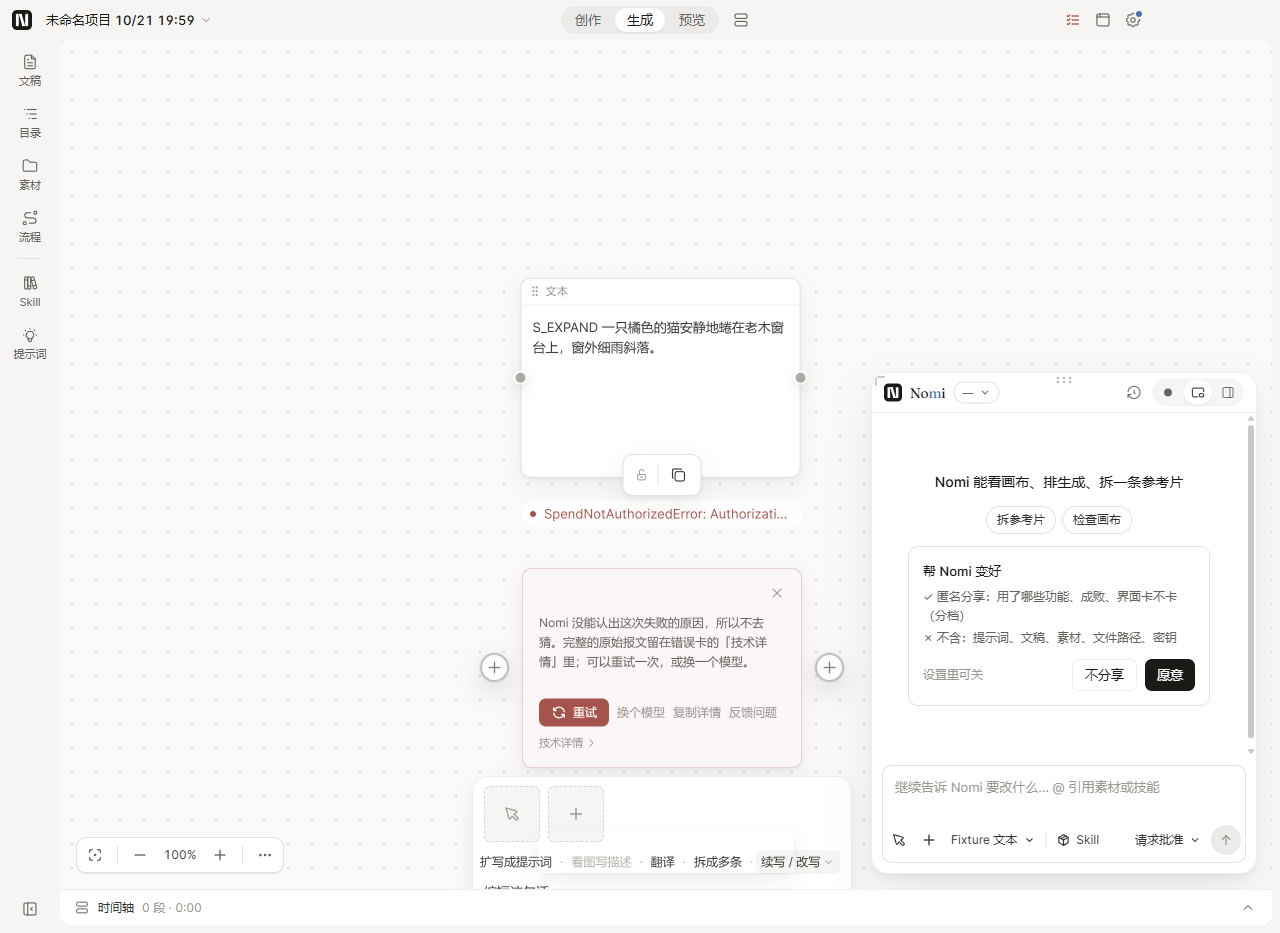
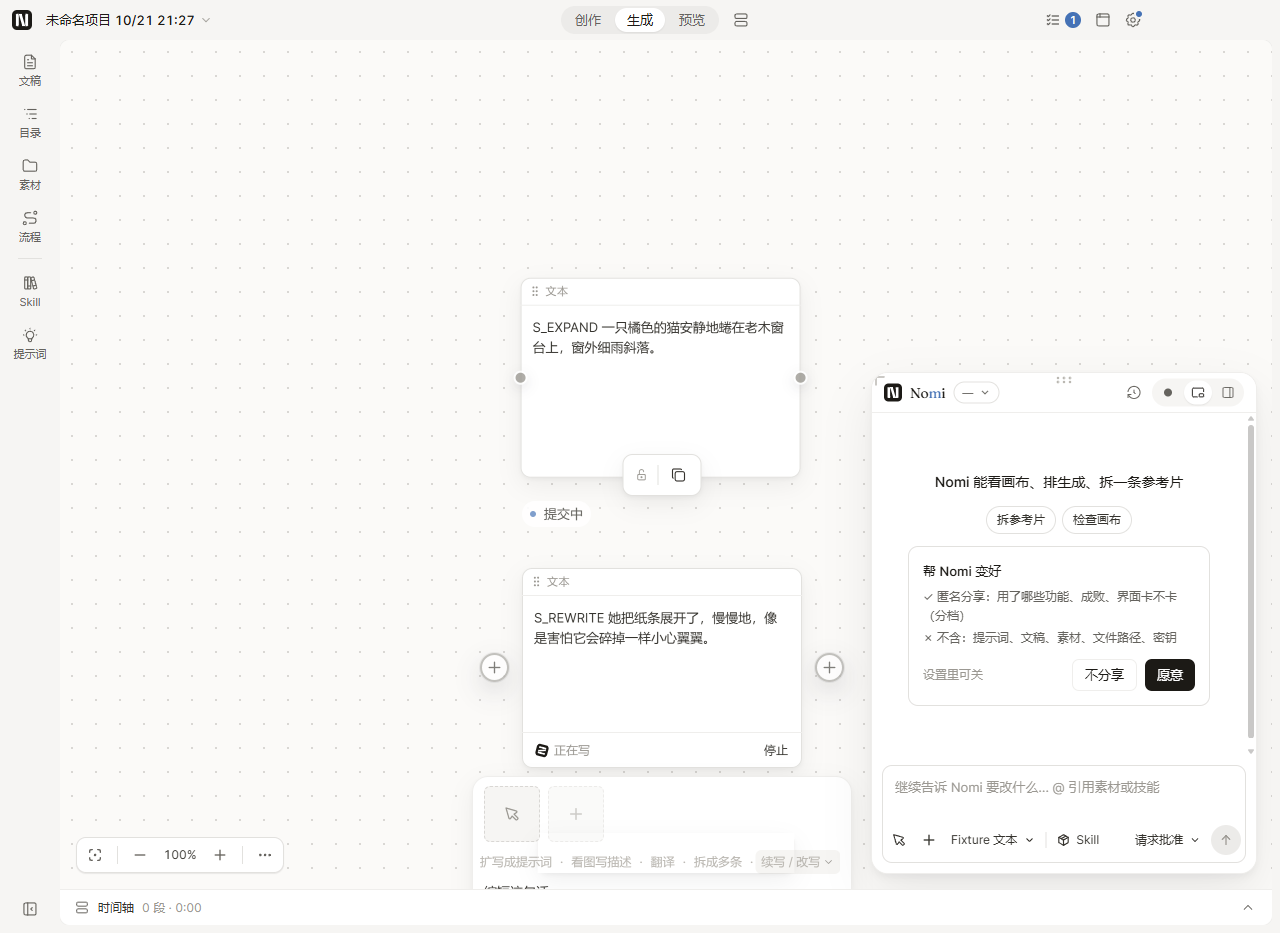
test(text): #2 改写选区整机演练补跑通（中英），预热与打开项目的实测与文档同步
#2 改写选区按拍板 A 修后，Electron 零花费演练中英两轮都过（先想 35 秒），截图 walk/04-zh-04-rewrite-done.png、
walk/10-en-04-rewrite-done.png；修前被拦的截图留作对照。设计卡「六」、根因合同的残留风险、复盘「系统哪里没拦住」、
证据 README 同步预热触发的三组实测与 #2 的修法。

Direction-Check: docs/audit/2026-10-21-text-stream-first-token-gate.md

diff --git a/docs/plan/2026-10-21-text-tasks-to-pi-ai.md b/docs/plan/2026-10-21-text-tasks-to-pi-ai.md
@@ -269,8 +269,9 @@
 
 - **调用方矩阵**（`electron/ai/textTaskCallers.integration.test.ts`，真 pi-ai + 真 HTTP 假上游，9 个调用方 × 正常 / 空回包 / 429 / 503 / 401 / SSE 包错 / 断流 / 无 finish_reason / 停止 / IPC 契约）：ai@4 上 19 红 → 迁移后全绿；计时类（`textTaskCallers.timing.integration.test.ts`：三相看门狗、整体兜底只给一次性入口、渲染层不自动重提）36 绿。
 - **真墙钟「先想 35 秒」**：9 个调用方在 ai@4 上全部 30 秒被掐 → 迁移后全过（`docs/evidence/2026-10-21-text-tasks-pi-ai/`）。
-- **Electron 零花费演练**（`tests/ux/text-tasks-pi-ai.rehearsal.walk.mjs`）：#1 扩写（流式，先想 35 秒）、#4 翻译、#3 优化中英两轮都过；#2 改写选区被付费闸挡（**迁移前就有**，见下）；#6 拆解被本机磁盘余量闸挡（no-disk-space，环境问题，记 unverified）。
-- **perf**（C4 之后，含预热）：热 中位 2.4 / p95 4.1ms（ai@4 基线 5.2 / 10.2，预算 20）；冷（预热完成后）中位 19.3 / p95 21.9ms（ai@4 基线 50.5 / 99.8，预算 100）；**刚启动就点、预热还没完成**：670–700ms（10 次），这是唯一比 ai@4 差的情形，窗口加载后约 4 秒起预热、约 2 秒装完。
+- **Electron 零花费演练**（`tests/ux/text-tasks-pi-ai.rehearsal.walk.mjs`）：#1 扩写（流式，先想 35 秒）、#4 翻译、#3 优化中英两轮都过；#2 改写选区第一轮被付费闸挡（**迁移前就有**，见下），按拍板 A 修后中英两轮都过（`walk/04-zh-04-rewrite-done.png`、`walk/10-en-04-rewrite-done.png`）；#6 拆解被本机磁盘余量闸挡（no-disk-space，环境问题，记 unverified，等用户清盘后补）。
+- **perf**（合 main 784dde0b1 之后）：热 中位 2.7 / p95 4.8ms（ai@4 基线 5.2 / 10.2，预算 20）；冷（预热完成后）中位 18.7 / p95 20.7ms（ai@4 基线 50.5 / 99.8，预算 100）；**刚启动就点、预热还没装**（真 App 主进程，10 次）：中位 174 / p95 207ms——唯一比 ai@4 差的情形（Node 子进程同量法 595–679ms，多出来的 pi-ai 入口在真 App 启动时已被别的模块装好）。
+- **预热的触发（协调 10-21 第 3 条，`docs/evidence/2026-10-21-text-tasks-pi-ai/c6-prewarm-trigger.txt`）**：启动后固定 4 秒预热 = Electron 主进程一段 250–290ms 同步阻塞，撞上「启动后几秒打开项目」时冷打开 100 节点中位 946 → 1341ms；照协调改成「带文本动作的界面一挂上就在空闲回调里预热」——这些界面随项目一起挂，仍落在打开过程里（1257ms），不采用；最终改为**指针移进 / 焦点进文本动作**（提示词优化、翻译、文本节点输入框、Agent 输入框，`src/workbench/api/textActionIntent.ts`）时在渲染层空闲回调里预热，主进程只装目录里启用了的文本模型用到的协议、逐条装：打开项目时不开火，冷打开回到中位 963–1022ms；预热本身最长阻塞中位 184 / 最大 231ms（单个 openai SDK 的模块图，主进程里拆不小——仍高于 100ms 线，选项见交付报告）。
 - **D9 目录里的 maxOutputTokens**：内置目录（seedBuiltins / apimartTexts / modelscopeTexts 等）没有任何文本模型声明 `meta.maxOutputTokens`，只有用户在目录里手填才会有；所以迁移后不会因为它把长文截断。
 - **pi-ai 子路径**：`createModels` / `createProvider` / `InMemoryCredentialStore` 不在 exports 子路径里，只能经入口导入；深引会破坏包封装，不采用（见「先查别人」）。
 

diff --git a/docs/audit/2026-10-21-text-stream-first-token-gate.md b/docs/audit/2026-10-21-text-stream-first-token-gate.md
@@ -61,6 +61,7 @@
 - 登记表早把 `ai-sdk-text-stack` 标成 `to-replace`，但「要替换」没有日期、没有门岗逼它收敛，于是修补一直落在这份将被替换的代码上：10-09 两刀、10-11 两刀、10-21 第五刀。
 - `fix-churn` 其实报过（「自写登记 to-replace，近 30 天已有 N 个 fix，先评估接入现成方案」），**修补线照样往下补**：门岗只打印、不阻断，派工的一方看到的是「这一刀很小」，看不到「这是同一个文件的第五刀」。
 - 测试夹具与被测的判活口径是同一条线写的（假模型立刻回话），所以「想得久」这一类从来没进过测试——靶子不独立。
+- 调用方矩阵从执行器往下测，入口之上的准入整层看不见：改写选区（#2）每次撞令牌付费闸、矩阵全绿，整机演练才暴露（走哪扇门由「给没给 onTextDelta」决定，不由任务种类决定）。补法：文本 kind 一律走流式门（结构）；真入口测试 `electron/ai/textEntries.ipc.integration.test.ts`；矩阵每个调用方登记真入口测试或缺口，渲染层发起的只许有测试（门岗，根因合同 `docs/fixes/2026-10-21-text-rewrite-routed-into-token-gate.root-cause.json`）。
 - 补法（本 PR）：**删掉**（第二台调用栈与它的依赖整体删除，`import 'ai'` 编译即红）＞**门岗**（`check:llm-stream-owner` 改为「pi 单次调用唯一主人」：核心之外调 `streamSimple` / `stream` 即红）；夹具补「先想后答」「静默想」「断流」等真 HTTP 形状，按调用方逐个跑。
 
 ## 特征测试清单

diff --git a/docs/evidence/2026-10-21-text-tasks-pi-ai/README.md b/docs/evidence/2026-10-21-text-tasks-pi-ai/README.md
@@ -12,4 +12,6 @@
 | `c2-pi-perf.txt` | C2 + 预热的 perf（机器负载高时的一轮） | C2 |
 | `c5-final-perf.txt` | C4 之后的 perf：热 2.4/4.1ms、冷（预热后）19.3/21.9ms、刚启动就点 670–700ms | C5 |
 | `d7-before.txt` / `d7-after.txt` | D7：三处文本任务错误展示，先红后绿 | D7 |
-| `walk/` | Electron 零花费演练截图（中 / 英）与每次调用的一行摘要 `calls.json` | C5 |
+| `rewrite-ipc-before.txt` / `rewrite-ipc-after.txt` | #2 改写选区真入口测试（渲染层 → 真 IPC → 真准入）：修前 `SpendNotAuthorizedError`，修后绿 | 协调 10-21 定 A 之后 |
+| `c6-prewarm-trigger.txt` | 预热会不会卡主进程：三种触发方式的主进程最长阻塞、冷打开 100 节点项目、刚启动就点的第一段字 | 合 main 784dde0b1 之后 |
+| `walk/` | Electron 零花费演练截图（中 / 英）与每次调用的一行摘要 `calls.json`；`*-rewrite-blocked-by-spend-gate.png` 是 #2 修前的样子，`*-rewrite-done.png` 是修后 | C5，#2 修后重跑 |
